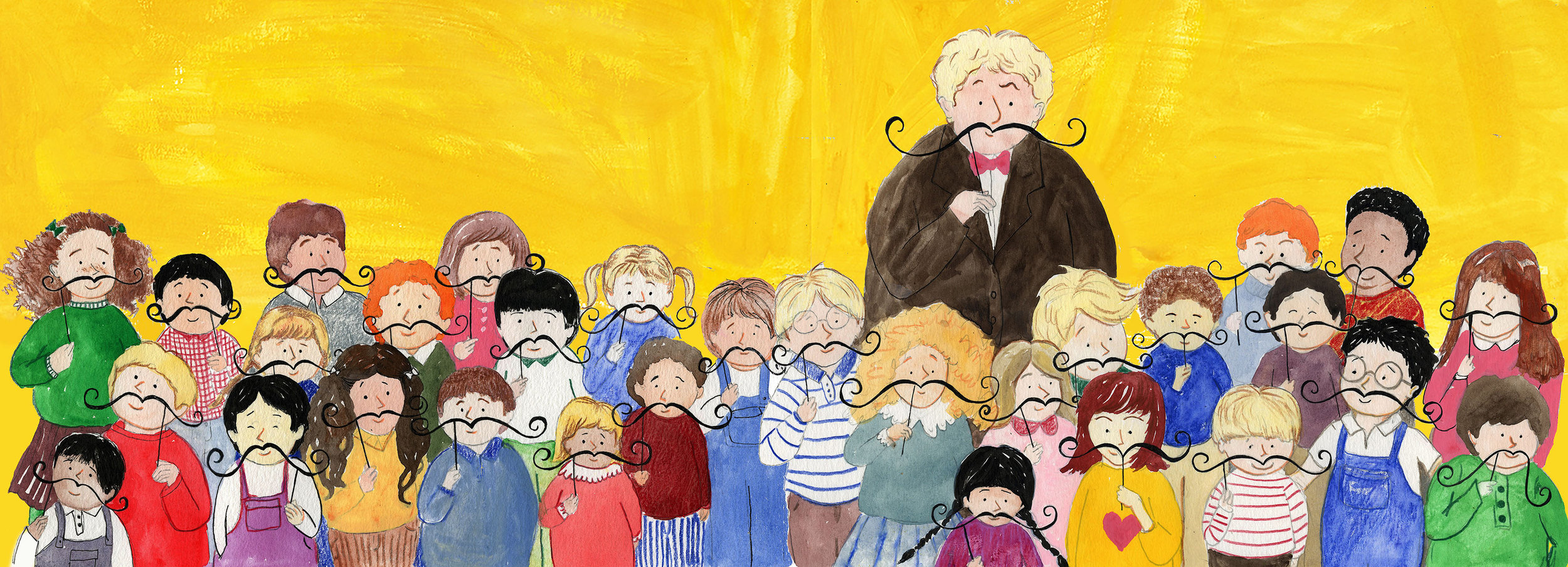
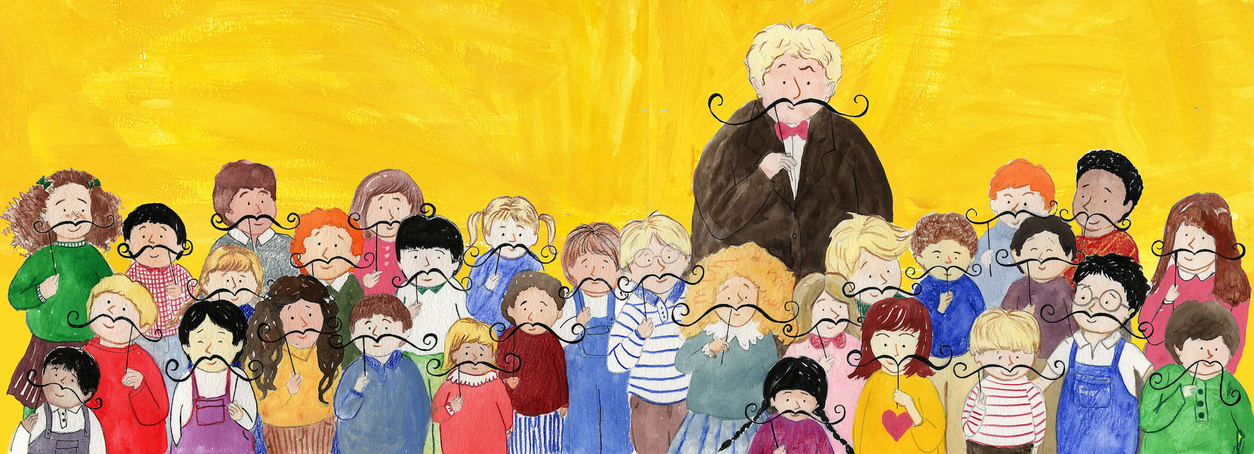
fixed mustache image size issue

diff --git a/styles/all.css b/styles/all.css
@@ -259,6 +259,11 @@ footer {
   width: auto;
 }
 
+#mustaches img{
+  width: 100%;
+  height: auto;
+}
+
 #single_img_title{
   text-align: center;
   color: black;

diff --git a/singleimage.php b/singleimage.php
@@ -100,7 +100,17 @@ $single_img_description = process_description($single_img["description"]);
 <?php include("includes/header.php");?>
   <div id="singleimgblock">
     <div id="single_img_title"><?php echo '"' . htmlspecialchars($single_img_filename) . '"' ?></div>
-    <?php echo '<img alt="' . htmlspecialchars($single_img["description"]) . '" src="uploads/images/' . htmlspecialchars($single_img["id"]) . '.' . htmlspecialchars($single_img["ext"]) . '"/>' ?>
+    <?php
+    if ($single_img_id != 17){
+      echo '<img alt="' . htmlspecialchars($single_img["description"]) . '" src="uploads/images/' . htmlspecialchars($single_img["id"]) . '.' . htmlspecialchars($single_img["ext"]) . '"/>';
+    }
+
+    else{
+      echo '<div id="mustaches"><img alt="' . htmlspecialchars($single_img["description"]) . '" src="uploads/images/' . htmlspecialchars($single_img["id"]) . '.' . htmlspecialchars($single_img["ext"]) . '"/></div>';
+    }
+
+
+    ?>
     <div id="single_img_details">
       <div id="single_img_descrip"><?php echo "Description: " . htmlspecialchars($single_img_description) ?></div>
 
